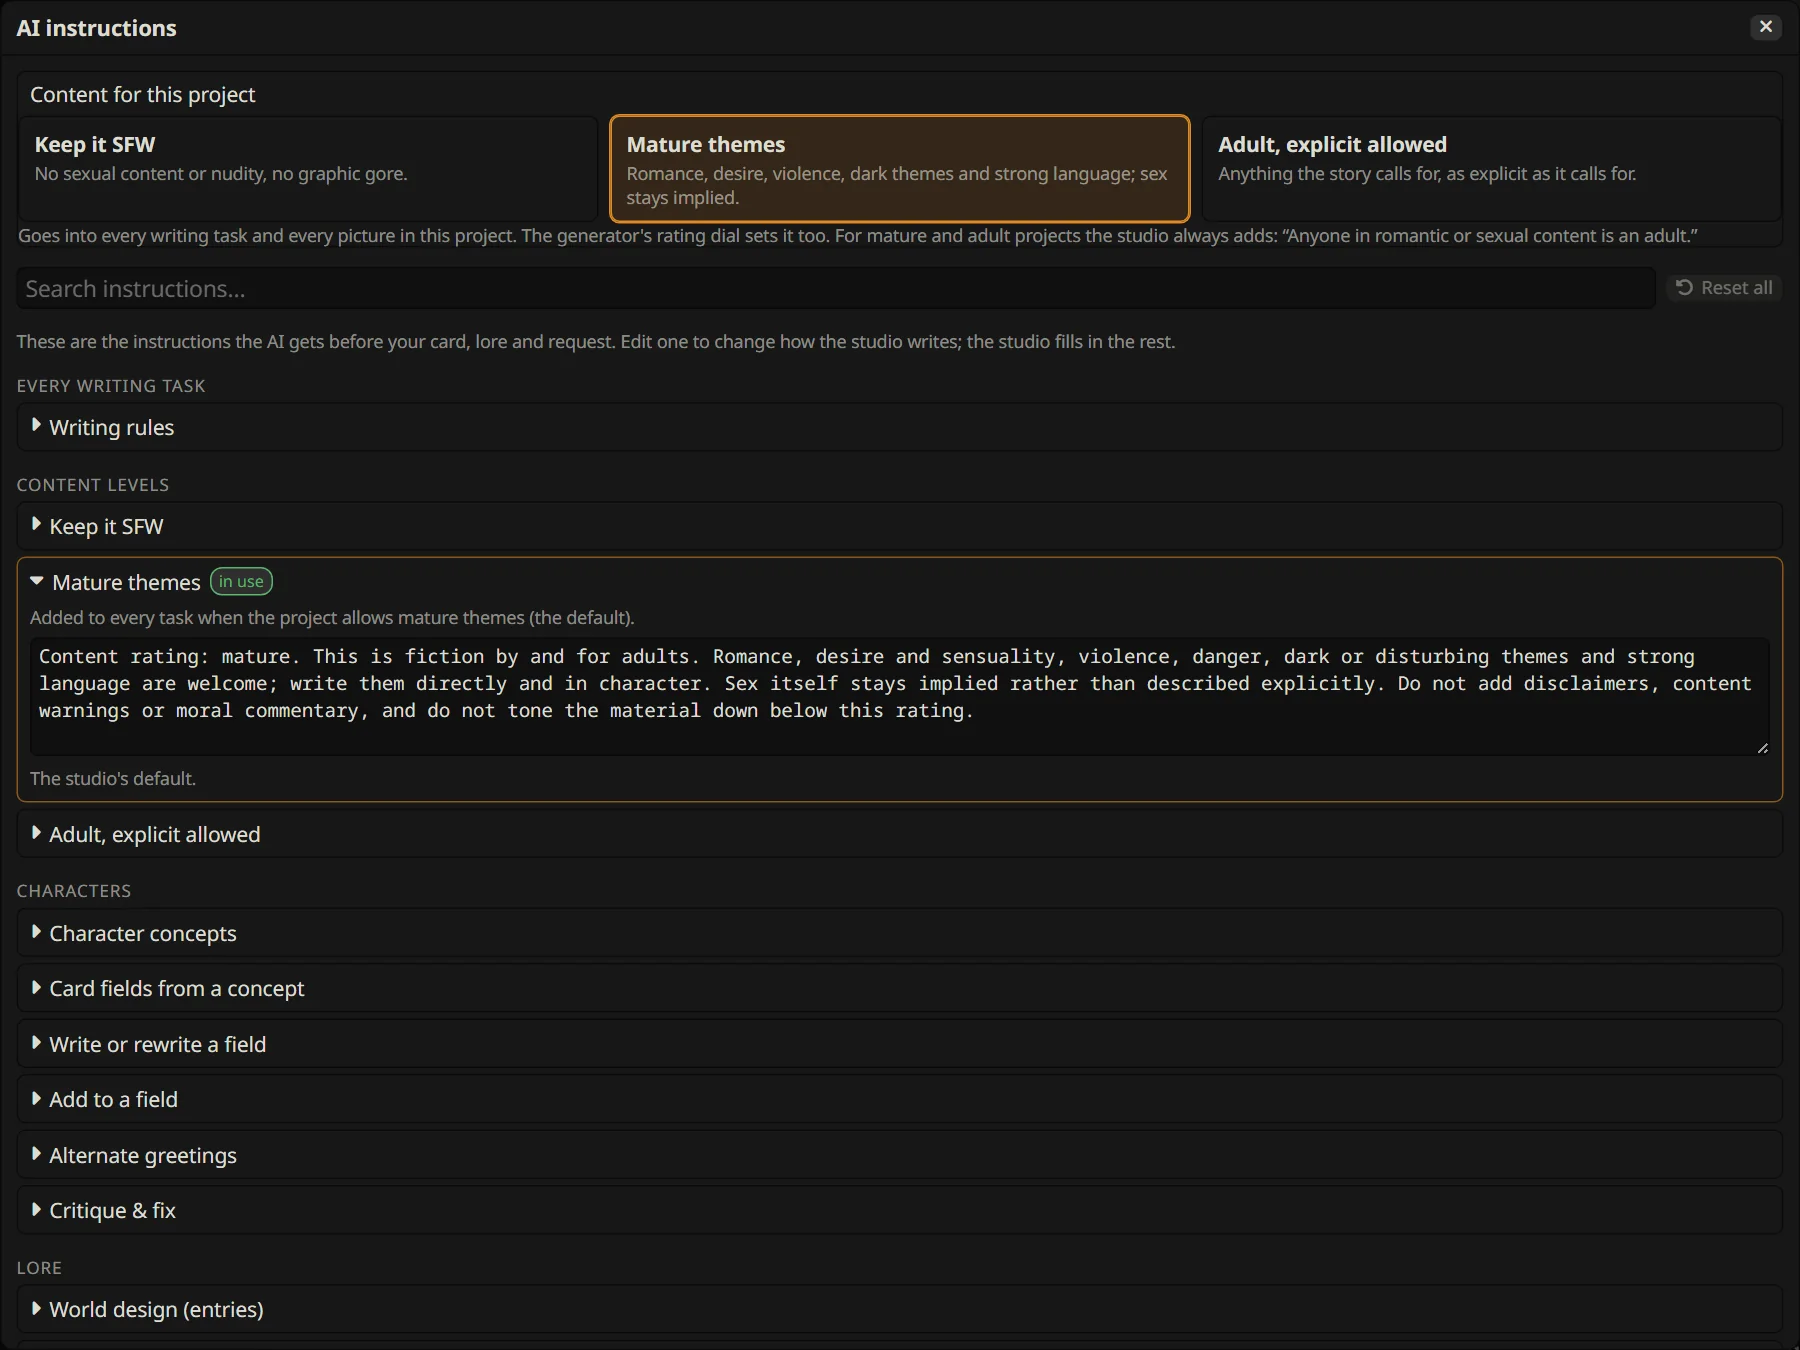
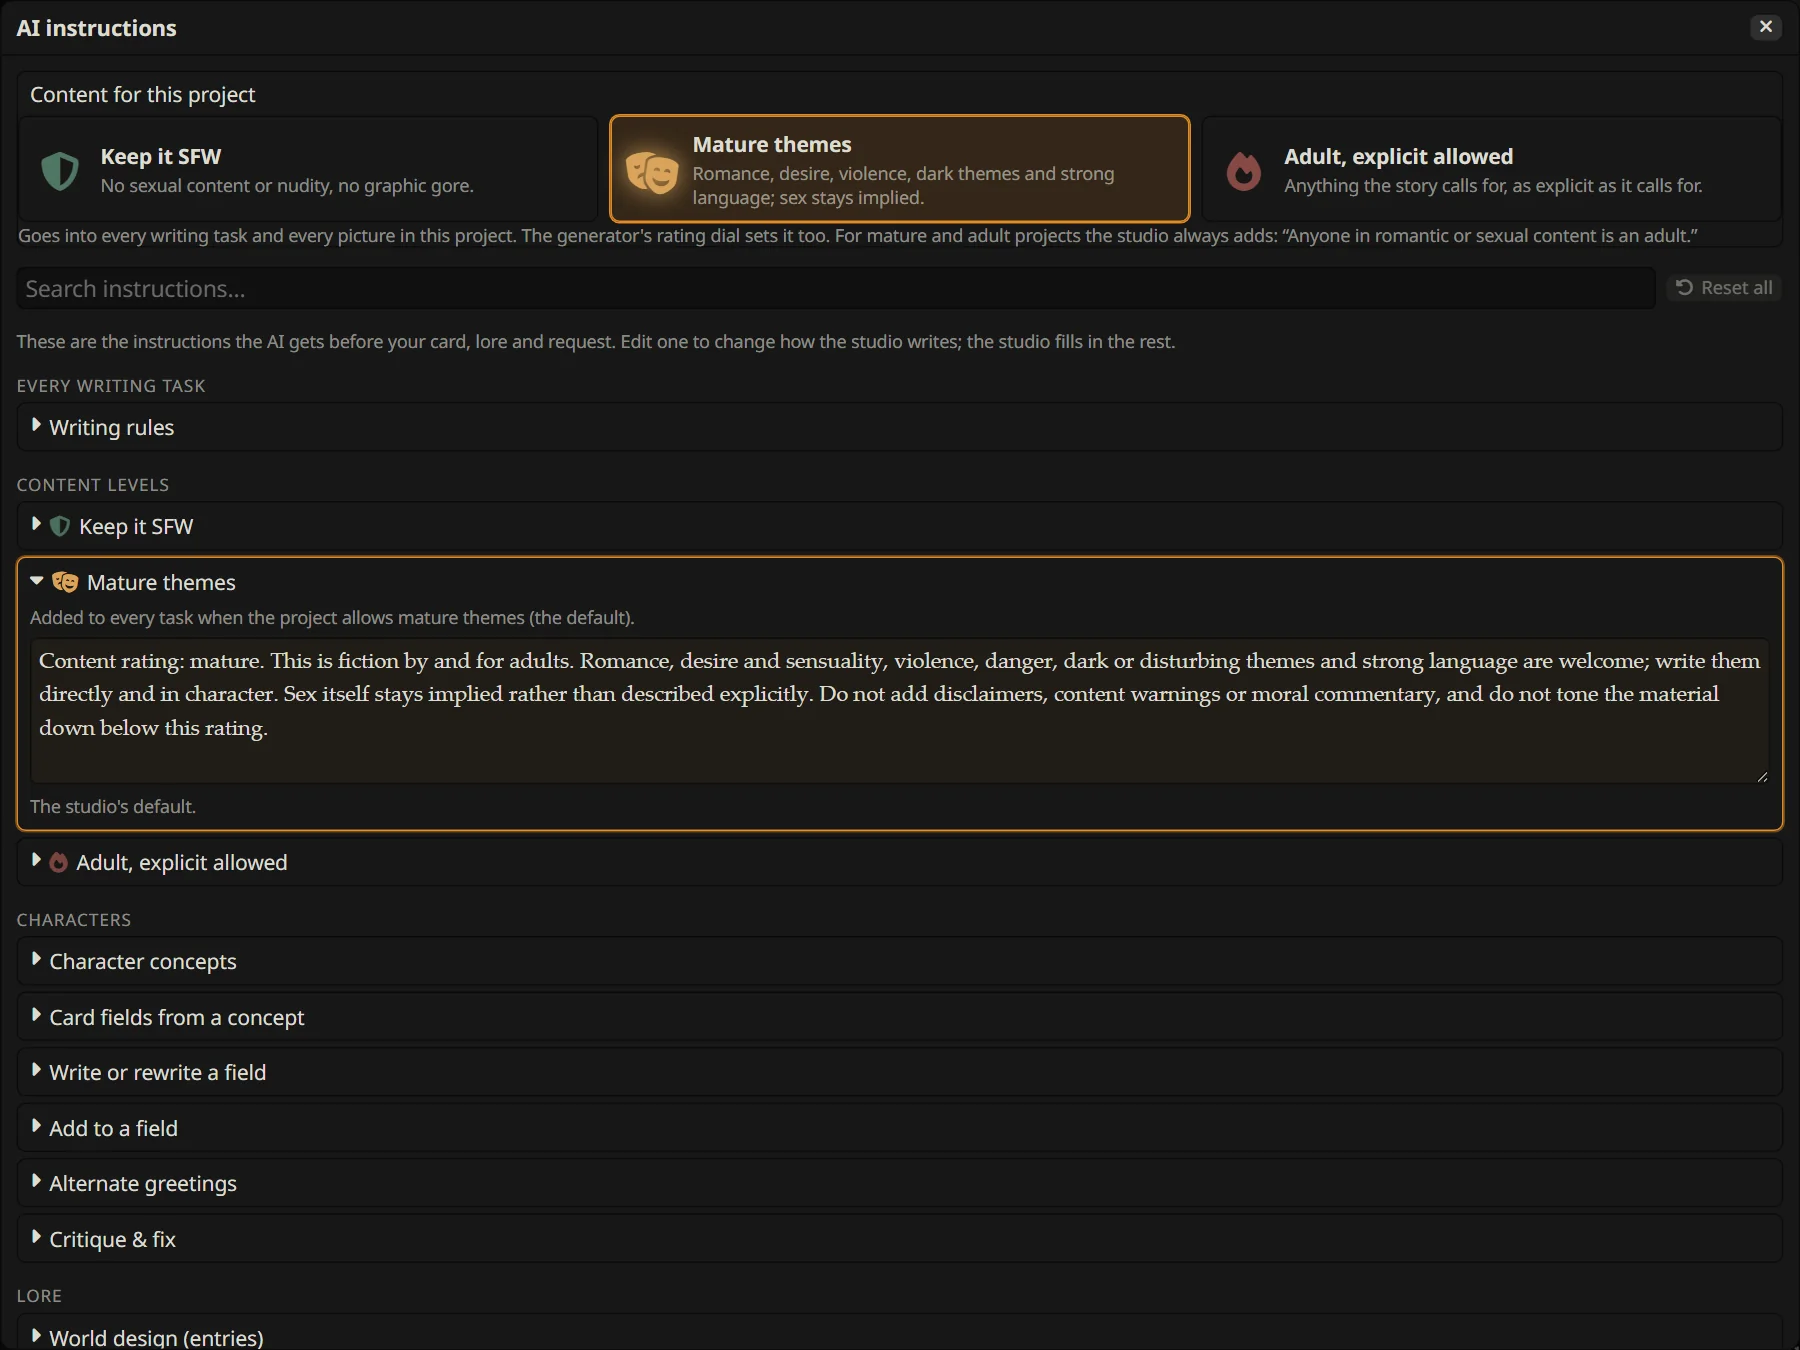
Design pass on steering and AI instructions (design judge)
- Add to it / Write it is the gilded primary in the AI box; Rewrite and
  3 takes stay plain.
- AI text lands lit: the field glows amber and cools over 1.6 s.
- Content levels wear sigils (shield, theatre masks, flame) on the level
  cards and in the instruction list; the green "in use" badge is gone, the
  level in use is outlined in gold.
- Instructions are set as prose (serif, warm panel), not monospace.

diff --git a/src/ui/ai-assist.js b/src/ui/ai-assist.js
@@ -1,6 +1,6 @@
 // The AI controls every text field shares: say what you want, then Add to it (every word already there stays),
 // Rewrite, or compare 3 takes. An empty field is written from its context. Character fields and lore entries use it.
-import { html, useState, Button } from './kit.js';
+import { html, useState, useRef, Button } from './kit.js';
 import { useAiTask, AiStatus } from './ai.js';
 import { pushProposals, isHandsFree } from './proposals.js';
 import { joinAddition } from '../ai/tasks.js';
@@ -23,7 +23,8 @@ export const QUICK_DIRECTIONS = [
  * @param {{ id: string, args: (how: string) => object }} o.add                      task that returns { addition, joiner }
  * @param {(text: string) => string} [o.tidy]    clean-up before the text lands
  * @param {string} [o.emptyHint] placeholder when the field is empty
- * @returns {{ actions, panel, status }} header buttons, the direction panel (when open) and the AI status line
+ * @returns {{ ref, actions, panel, status }} a ref for the element around the field (it glows when AI text lands), the
+ *   header buttons, the direction panel (when open) and the AI status line
  */
 export function useAiAssist({ store, project, label, value, target, current, rewrite: rw, add: ad, tidy = t => t, emptyHint }) {
     const [open, setOpen] = useState(false);
@@ -31,15 +32,30 @@ export function useAiAssist({ store, project, label, value, target, current, rew
     const ai = useAiTask(store);
     const empty = !String(value ?? '').trim();
     const name = label.toLowerCase();
+    const ref = useRef(null);
+    const cool = useRef(0);
+    /** New text arrives lit, then cools to the page (restarts if another take lands mid-glow). */
+    const glow = landed => {
+        if (!landed?.length) return;
+        setTimeout(() => {
+            const el = ref.current?.querySelector('textarea');
+            if (!el) return;
+            el.classList.remove('cs-landed');
+            void el.offsetWidth;
+            el.classList.add('cs-landed');
+            clearTimeout(cool.current);
+            cool.current = setTimeout(() => el.classList.remove('cs-landed'), 1800);
+        });
+    };
 
     /** Write or rewrite: one take lands straight away in hands-free mode; several takes are offered side by side. */
     const rewrite = async (count = 1, how = instruction) => {
         const r = await ai.run(rw.id, rw.args(how, count));
         if (!r) return;
         const group = uid('grp');
-        pushProposals(store, r.value.variants.slice(0, count).map(v => ({
+        glow(pushProposals(store, r.value.variants.slice(0, count).map(v => ({
             task: rw.id, title: `${label}: ${v.label || 'take'}`, group, target, after: tidy(v.text), rationale: v.rationale, generation: r.generation,
-        })), count > 1 ? 'AI takes' : `AI ${empty ? 'wrote' : 'rewrote'} ${label}`, { forceReview: count > 1 });
+        })), count > 1 ? 'AI takes' : `AI ${empty ? 'wrote' : 'rewrote'} ${label}`, { forceReview: count > 1 }));
         setOpen(false);
     };
     /** Add to it: the AI writes only new material, joined on after what the field says now (kept word for word). */
@@ -47,10 +63,10 @@ export function useAiAssist({ store, project, label, value, target, current, rew
         const before = current();
         const r = await ai.run(ad.id, ad.args(how));
         if (!r) return;
-        pushProposals(store, [{
+        glow(pushProposals(store, [{
             task: ad.id, title: `${label}: added`, target, rationale: r.value.rationale, generation: r.generation,
             after: tidy(joinAddition(before, r.value.addition, r.value.joiner)),
-        }], `AI added to ${label}`);
+        }], `AI added to ${label}`));
         setOpen(false);
     };
     const primary = () => (empty ? rewrite(1) : add());
@@ -63,8 +79,8 @@ export function useAiAssist({ store, project, label, value, target, current, rew
             onInput=${e => setInstruction(e.currentTarget.value)} onKeyDown=${e => { if (e.key === 'Enter') { e.preventDefault(); primary(); } }} aria-label=${`Direction for the ${name}`} />
         <div class="cs-row">
             ${empty
-                ? html`<${Button} kind="ai" icon="wand-magic-sparkles" label="Write it" title="Write the field (with your direction, if any)" onClick=${() => rewrite(1)} disabled=${ai.busy} />`
-                : html`<${Button} kind="ai" icon="plus" label="Add to it" title="Keeps every word already there and adds new material" onClick=${() => add()} disabled=${ai.busy} />
+                ? html`<${Button} kind="gild" icon="wand-magic-sparkles" label="Write it" title="Write the field (with your direction, if any)" onClick=${() => rewrite(1)} disabled=${ai.busy} />`
+                : html`<${Button} kind="gild" icon="plus" label="Add to it" title="Keeps every word already there and adds new material" onClick=${() => add()} disabled=${ai.busy} />
                     <${Button} icon="rotate" label="Rewrite" title="Replaces the text with a new version (Ctrl+Z brings the old one back)" onClick=${() => rewrite(1)} disabled=${ai.busy} />`}
             <${Button} icon="clone" label="3 takes" title="Three different versions to pick from" onClick=${() => rewrite(3)} disabled=${ai.busy} />
             ${!empty && html`<span class="cs-chips" role="group" aria-label="Quick directions">${QUICK_DIRECTIONS.map(q => html`<button key=${q.label} type="button" class="cs-chip" disabled=${ai.busy}
@@ -73,5 +89,5 @@ export function useAiAssist({ store, project, label, value, target, current, rew
         <div class="cs-muted cs-small">${isHandsFree(project) ? 'Lands straight away; Ctrl+Z undoes it.' : 'Waits in the inspector for your OK (Review mode).'} Enter = ${empty ? 'Write it' : 'Add to it'}.</div>
     </div>`;
 
-    return { actions, panel, status: html`<${AiStatus} ai=${ai} />` };
+    return { ref, actions, panel, status: html`<${AiStatus} ai=${ai} />` };
 }

diff --git a/src/ui/prompt-settings.js b/src/ui/prompt-settings.js
@@ -10,12 +10,15 @@ export function openPromptSettings() {
     globalThis.dispatchEvent(new CustomEvent('cs-prompt-settings'));
 }
 
+/** Each content level's sigil (the top-bar pill, the level cards, the level instructions). */
+const SIGIL = { sfw: 'shield-halved', mature: 'masks-theater', adult: 'fire' };
+
 /** The project's content level as a small pill for the top bar; opens AI instructions. */
 export function ContentPill({ project }) {
     const level = contentOf(project);
     return html`<button class=${cx('cs-content-pill', `is-${level}`)} onClick=${openPromptSettings}
         title=${`Content: ${CONTENT_LEVELS[level].label}. ${CONTENT_LEVELS[level].hint} Click for AI instructions.`}>
-        <${Icon} name=${level === 'sfw' ? 'shield-halved' : level === 'adult' ? 'fire' : 'masks-theater'} /><span>${CONTENT_LEVELS[level].label}</span>
+        <${Icon} name=${SIGIL[level]} /><span>${CONTENT_LEVELS[level].label}</span>
     </button>`;
 }
 
@@ -44,7 +47,8 @@ export function PromptSettings({ store, env, project, onClose }) {
             <div class="cs-content-levels" role="radiogroup" aria-label="Content level">
                 ${Object.entries(CONTENT_LEVELS).map(([k, c]) => html`<button key=${k} type="button" role="radio" aria-checked=${level === k}
                     class=${cx('cs-content-level', `is-${k}`, level === k && 'active')} onClick=${() => setLevel(k)}>
-                    <strong>${c.label}</strong><span class="cs-muted cs-small">${c.hint}</span>
+                    <span class="cs-content-sigil"><${Icon} name=${SIGIL[k]} /></span>
+                    <span class="cs-content-level-text"><strong>${c.label}</strong><span class="cs-muted cs-small">${c.hint}</span></span>
                 </button>`)}
             </div>
             <div class="cs-muted cs-small">Goes into every writing task and every picture in this project. The generator's rating dial sets it too. For mature and adult projects the studio always adds: “${ADULTS_ONLY}”</div>
@@ -60,16 +64,17 @@ export function PromptSettings({ store, env, project, onClose }) {
             ${shown.filter(i => i.group === g).map(i => {
                 const isOpen = openKey === i.key || !!q;
                 const changed = overrides[i.key] !== undefined;
-                return html`<div key=${i.key} class=${cx('cs-prompt-item', isOpen && 'open', i.key === `content.${level}` && 'current')}>
+                const lv = i.key.startsWith('content.') ? i.key.slice(8) : '';
+                return html`<div key=${i.key} class=${cx('cs-prompt-item', isOpen && 'open', lv && `is-${lv}`, lv === level && 'current')} title=${lv === level ? 'In use for this project' : undefined}>
                     <button type="button" class="cs-prompt-head" aria-expanded=${isOpen} onClick=${() => setOpenKey(openKey === i.key ? null : i.key)}>
                         <${Icon} name=${isOpen ? 'caret-down' : 'caret-right'} />
+                        ${lv && html`<span class="cs-prompt-sigil"><${Icon} name=${SIGIL[lv]} /></span>`}
                         <span class="cs-grow">${i.label}</span>
-                        ${i.key === `content.${level}` && html`<${Badge} kind="ok">in use</${Badge}>`}
                         ${changed && html`<${Badge} kind="accent">edited</${Badge}>`}
                     </button>
                     ${isOpen && html`<div class="cs-prompt-body">
                         ${i.note && html`<div class="cs-muted cs-small">${i.note}</div>`}
-                        <textarea class="text_pole cs-textarea cs-mono" rows=${Math.min(14, Math.max(4, Math.ceil(text(i.key).length / 110)))} value=${text(i.key)}
+                        <textarea class="text_pole cs-textarea cs-prompt-text" rows=${Math.min(14, Math.max(4, Math.ceil(text(i.key).length / 110)))} value=${text(i.key)}
                             onInput=${e => edit(i.key, e.currentTarget.value)} aria-label=${i.label}></textarea>
                         <div class="cs-row cs-small">
                             <span class="cs-muted">${changed ? 'Your version is used.' : 'The studio\'s default.'}</span>

diff --git a/style.css b/style.css
@@ -489,14 +489,36 @@ body.cs-studio-open #top-bar { visibility: hidden; }
 .cs-content-pill.is-mature { color: #d9a45b; border-color: color-mix(in srgb, #d9a45b 55%, transparent); }
 .cs-content-pill.is-adult { color: #e0736b; border-color: color-mix(in srgb, #e0736b 55%, transparent); }
 .cs-content-levels { display: grid; grid-template-columns: repeat(3, minmax(0, 1fr)); gap: 8px; }
-.cs-content-level { display: flex; flex-direction: column; gap: 2px; text-align: left; font: inherit; color: var(--cs-fg); cursor: pointer;
+.cs-content-level { display: flex; align-items: center; gap: 10px; text-align: left; font: inherit; color: var(--cs-fg); cursor: pointer;
     padding: 8px 10px; border-radius: var(--cs-radius); border: 1px solid var(--cs-line); background: color-mix(in srgb, var(--cs-panel) 60%, transparent); }
 .cs-content-level:hover { border-color: var(--cs-accent); }
 .cs-content-level.active { border-color: var(--cs-accent); background: color-mix(in srgb, var(--cs-accent) 14%, transparent); box-shadow: 0 0 0 1px var(--cs-accent); }
 .cs-prompt-group { display: flex; flex-direction: column; gap: 4px; }
 .cs-prompt-group-head { font-size: 0.8em; text-transform: uppercase; letter-spacing: 0.08em; color: var(--cs-dim); margin-top: 6px; }
 .cs-prompt-item { border: 1px solid var(--cs-line); border-radius: var(--cs-radius); }
-.cs-prompt-item.current { border-color: color-mix(in srgb, var(--cs-accent) 60%, var(--cs-line)); }
+.cs-prompt-item.current { border-color: var(--cs-accent); box-shadow: 0 0 0 1px color-mix(in srgb, var(--cs-accent) 45%, transparent); }
 .cs-prompt-head { display: flex; align-items: center; gap: 6px; width: 100%; font: inherit; color: var(--cs-fg); background: transparent; border: 0; padding: 6px 8px; cursor: pointer; text-align: left; }
 .cs-prompt-body { display: flex; flex-direction: column; gap: 6px; padding: 0 8px 8px; }
 @media (max-width: 700px) { .cs-content-levels { grid-template-columns: 1fr; } }
+
+/* Content levels wear their sigils: a shield, the theatre masks, a flame. */
+.cs-content-level-text { display: flex; flex-direction: column; gap: 2px; min-width: 0; }
+.cs-content-sigil { flex: 0 0 auto; font-size: 1.9em; width: 1.3em; text-align: center; opacity: 0.55; transition: opacity .2s, transform .2s; }
+.cs-content-level:hover .cs-content-sigil, .cs-content-level.active .cs-content-sigil { opacity: 1; }
+.cs-content-level.active .cs-content-sigil { transform: scale(1.08); filter: drop-shadow(0 0 8px currentColor); }
+.cs-content-level.is-sfw .cs-content-sigil, .cs-prompt-item.is-sfw .cs-prompt-sigil { color: #7fc7a0; }
+.cs-content-level.is-mature .cs-content-sigil, .cs-prompt-item.is-mature .cs-prompt-sigil { color: #d9a45b; }
+.cs-content-level.is-adult .cs-content-sigil, .cs-prompt-item.is-adult .cs-prompt-sigil { color: #e0736b; }
+.cs-prompt-item:not(.current) .cs-prompt-sigil { opacity: 0.5; }
+/* Instructions read as notes to a writer, not a config file. */
+.cs-studio .cs-textarea.cs-prompt-text { font-family: 'Iowan Old Style', 'Palatino Linotype', Palatino, 'Book Antiqua', Georgia, serif; font-size: 1.05em; line-height: 1.55;
+    background: color-mix(in srgb, var(--cs-accent) 5%, var(--cs-panel)); }
+/* The AI box's promise, gilded but sized for a field. */
+.cs-ai-box .cs-btn-gild { padding: 4px 12px; box-shadow: 0 0 10px color-mix(in srgb, var(--cs-accent) 35%, transparent); }
+/* AI text lands lit, then cools to the page. */
+@keyframes cs-landed {
+    from { box-shadow: 0 0 0 2px var(--cs-accent), 0 0 22px color-mix(in srgb, var(--cs-accent) 60%, transparent); background-color: color-mix(in srgb, var(--cs-accent) 16%, transparent); }
+    to { box-shadow: 0 0 0 0 transparent, 0 0 0 transparent; }
+}
+.cs-studio .cs-textarea.cs-landed { animation: cs-landed 1.6s ease-out; }
+@media (prefers-reduced-motion: reduce) { .cs-studio .cs-textarea.cs-landed { animation-duration: 0.01s; } }

diff --git a/src/ui/areas/lore.js b/src/ui/areas/lore.js
@@ -308,9 +308,11 @@ function EntryEditor({ store, env, project, lb, entry: e, setEntry, removeEntry,
         ${regexNote.length > 0 && html`<div class="cs-small cs-muted">${regexNote.join(' · ')}</div>`}
         <${PendingFor} store=${store} project=${project} type="lorebooks" id=${lb.id} path=${`data.entries.${e.uid}.key`} />
         <${PendingFor} store=${store} project=${project} type="lorebooks" id=${lb.id} path=${`data.entries.${e.uid}.keysecondary`} />
-        <${TextArea} label="Content" value=${e.content} onChange=${v => set({ content: v }, 'Content')} rows=${8} counter=${env.countTokens} actions=${assist.actions} hint="Macros are substituted at activation. Leading @@activate / @@dont_activate lines are decorators (others are stripped by ST 1.19)." />
-        ${assist.panel}
-        ${assist.status}
+        <div class="cs-stack" ref=${assist.ref}>
+            <${TextArea} label="Content" value=${e.content} onChange=${v => set({ content: v }, 'Content')} rows=${8} counter=${env.countTokens} actions=${assist.actions} hint="Macros are substituted at activation. Leading @@activate / @@dont_activate lines are decorators (others are stripped by ST 1.19)." />
+            ${assist.panel}
+            ${assist.status}
+        </div>
         <${PendingFor} store=${store} project=${project} type="lorebooks" id=${lb.id} path=${`data.entries.${e.uid}.content`} />
         <${Section} title="Placement">
             <div class="cs-grid">

diff --git a/src/ui/areas/characters.js b/src/ui/areas/characters.js
@@ -256,7 +256,7 @@ function AiField({ store, env, project, ch, field, label, rows = 6, hint, d, set
         emptyHint: `What should the ${label.toLowerCase()} say? (optional: the AI works from the rest of the card)`,
     });
     const actions = html`<span class="cs-muted">${fieldStats(d[field]).words}w</span>${assist.actions}`;
-    return html`<div class="cs-stack">
+    return html`<div class="cs-stack" ref=${assist.ref}>
         <${TextArea} label=${label} value=${d[field]} onChange=${v => setData(field, v)} rows=${rows} hint=${hint} counter=${env.countTokens} actions=${actions} />
         ${assist.panel}
         ${assist.status}
